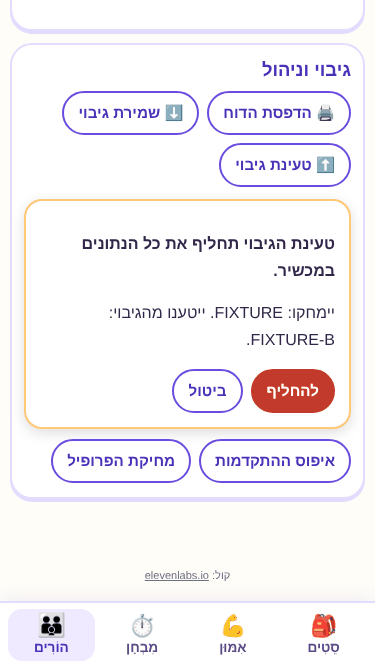
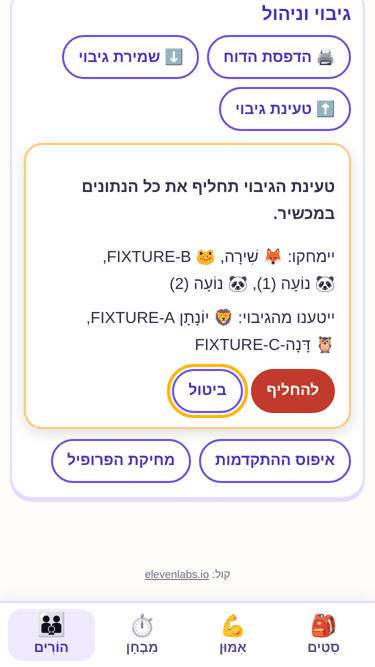
Backup confirm box: bidi-isolated names on separate lines, numbered duplicates, focus/Escape
- Each name in <bdi dir="auto"> with its avatar; "removed" and "loaded" on
  their own lines; a name that appears twice in a list gets (1)/(2)
- Focus starts on ביטול; Escape cancels from anywhere; after cancel focus
  returns to "טעינת גיבוי". Cancel/Escape write nothing (byte-identical test)
- qa/tests/backup-confirm.cjs: 41 checks (Hebrew, Hebrew+Latin, same-name
  fixtures, Tab order, Escape x3); fails 20 checks on the previous commit
- sw.js cache version bumped

Claude-Session: https://claude.ai/code/session_017gqCKH7JpkumFAjPug8uE5

diff --git a/tier2.js b/tier2.js
@@ -642,6 +642,21 @@ function ParentView() {
   const [msg, setMsg] = useState('');
   const [pending, setPending] = useState(null); // a parsed backup waiting for "replace?" confirmation
   const fileRef = useRef(null);
+  const cancelRef = useRef(null);
+  const loadBtnRef = useRef(null);
+  const cancelPending = () => {
+    setPending(null);
+    setMsg('הטעינה בוטלה. לא שונה דבר.');
+    requestAnimationFrame(() => loadBtnRef.current && loadBtnRef.current.focus());
+  };
+  // while the "replace?" box is open: start on ביטול, and Escape cancels
+  useEffect(() => {
+    if (!pending) return;
+    if (cancelRef.current) cancelRef.current.focus();
+    const onKey = (e) => { if (e.key === 'Escape' && !document.querySelector('.pwa-sheet-wrap')) { e.preventDefault(); cancelPending(); } };
+    document.addEventListener('keydown', onKey);
+    return () => document.removeEventListener('keydown', onKey);
+  }, [pending]);
   const kid = s.profiles.find((p) => p.id === sel) || s.profiles[0];
   const sets = origSetsProgress();
 
@@ -673,12 +688,26 @@ function ParentView() {
     setPending(null);
     setMsg('הנתונים נטענו.');
   };
-  const confirmReplace = pending && h('div', { className: 't2-confirm', role: 'alertdialog', 'aria-label': 'החלפת הנתונים' },
-    h('p', null, h('b', null, 'טעינת הגיבוי תחליף את כל הנתונים במכשיר.')),
-    h('p', null, `יימחקו: ${state.profiles.map((p) => p.name).join(', ')}. ייטענו מהגיבוי: ${pending.profiles.map((p) => p.name).join(', ') || 'אין פרופילים'}.`),
+  // names are bidi-isolated; the same name twice in a list gets a number so they stay distinguishable
+  const nameList = (profiles) => {
+    if (!profiles.length) return 'אין פרופילים';
+    const total = {}, seen = {};
+    profiles.forEach((p) => { total[p.name] = (total[p.name] || 0) + 1; });
+    return profiles.map((p, i) => {
+      seen[p.name] = (seen[p.name] || 0) + 1;
+      return h(Fragment, { key: p.id || i }, i > 0 ? ', ' : '',
+        h('span', { className: 't2-nm' }, p.avatar ? p.avatar + ' ' : '', h('bdi', { dir: 'auto' }, String(p.name)), total[p.name] > 1 ? ` (${seen[p.name]})` : ''));
+    });
+  };
+  const confirmReplace = pending && h('div', { className: 't2-confirm', role: 'alertdialog', 'aria-labelledby': 't2-rep-t', 'aria-describedby': 't2-rep-d' },
+    h('p', { id: 't2-rep-t' }, h('b', null, 'טעינת הגיבוי תחליף את כל הנתונים במכשיר.')),
+    h('div', { id: 't2-rep-d' },
+      h('p', { className: 't2-rep-line' }, 'יימחקו: ', nameList(state.profiles)),
+      h('p', { className: 't2-rep-line' }, 'ייטענו מהגיבוי: ', nameList(pending.profiles))),
     h('div', { className: 't2-row wrap' },
       h(Btn, { className: 'danger sm', onClick: () => applyBackup(pending) }, 'להחליף'),
-      h(Btn, { className: 'ghost sm', onClick: () => { setPending(null); setMsg('הטעינה בוטלה. לא שונה דבר.'); } }, 'ביטול')));
+      // plain <button> (Btn can't take a ref) so focus can start here
+      h('button', { type: 'button', className: 't2-btn ghost sm', ref: cancelRef, onClick: cancelPending }, 'ביטול')));
   const header = h('div', { className: 't2-parent-h' },
     h('h2', { className: 't2-h' }, '👪 אזור הורים'),
     h('p', { className: 't2-sub' }, 'סיכום ההתקדמות באימון ובמבחנים. הנתונים נשמרים רק בדפדפן הזה, במכשיר הזה.'));
@@ -759,7 +788,7 @@ function ParentView() {
       h('div', { className: 't2-row wrap' },
         h(Btn, { className: 'ghost sm', onClick: () => window.print() }, '🖨 הדפסת הדוח'),
         h(Btn, { className: 'ghost sm', onClick: exportData }, '⬇ שמירת גיבוי'),
-        h(Btn, { className: 'ghost sm', onClick: () => fileRef.current && fileRef.current.click() }, '⬆ טעינת גיבוי'),
+        h('button', { type: 'button', className: 't2-btn ghost sm', ref: loadBtnRef, onClick: () => fileRef.current && fileRef.current.click() }, '⬆ טעינת גיבוי'),
         h('input', { ref: fileRef, type: 'file', accept: 'application/json,.json', hidden: true, onChange: importData })),
       confirmReplace,
       h('div', { className: 't2-row wrap' },

diff --git a/sw.js b/sw.js
@@ -14,7 +14,7 @@
 // To ship a change to this list, bump VERSION: the new worker installs a fresh
 // cache, takes over at once (skipWaiting + clients.claim) and deletes the old one.
 
-const VERSION = 'v3-2026-11-27';
+const VERSION = 'v4-2026-11-27';
 const PREFIX = 'stage1-shell-';
 const CACHE = PREFIX + VERSION;
 

diff --git a/tier2.css b/tier2.css
@@ -210,3 +210,5 @@ html:has(.t2-runbar){scroll-padding-top:84px}
   .hud{position:static}
   html:has(#root>div:not([hidden]) .hud){scroll-padding-top:0}
 }
+.t2-rep-line{margin:6px 0;line-height:1.7}
+.t2-nm{white-space:nowrap}
